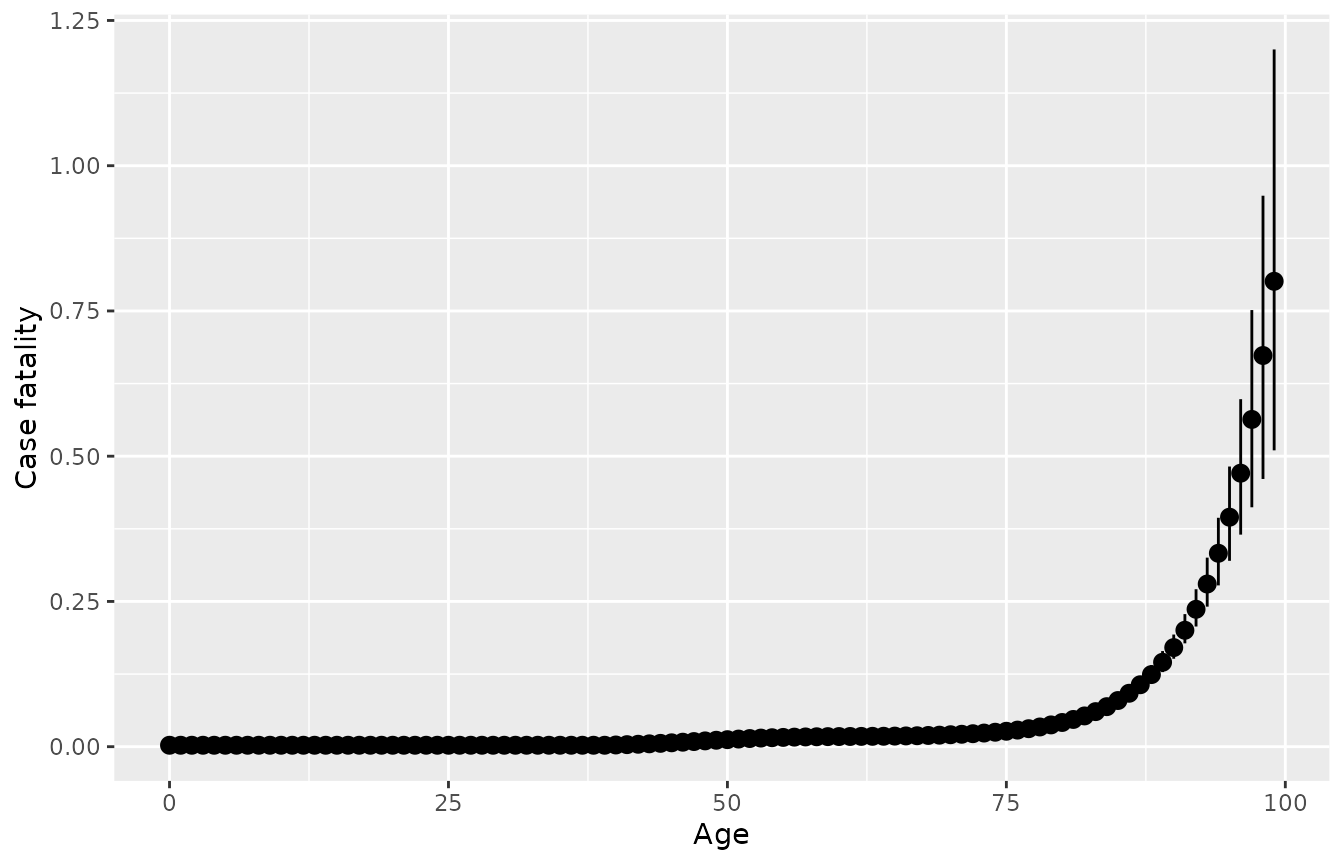
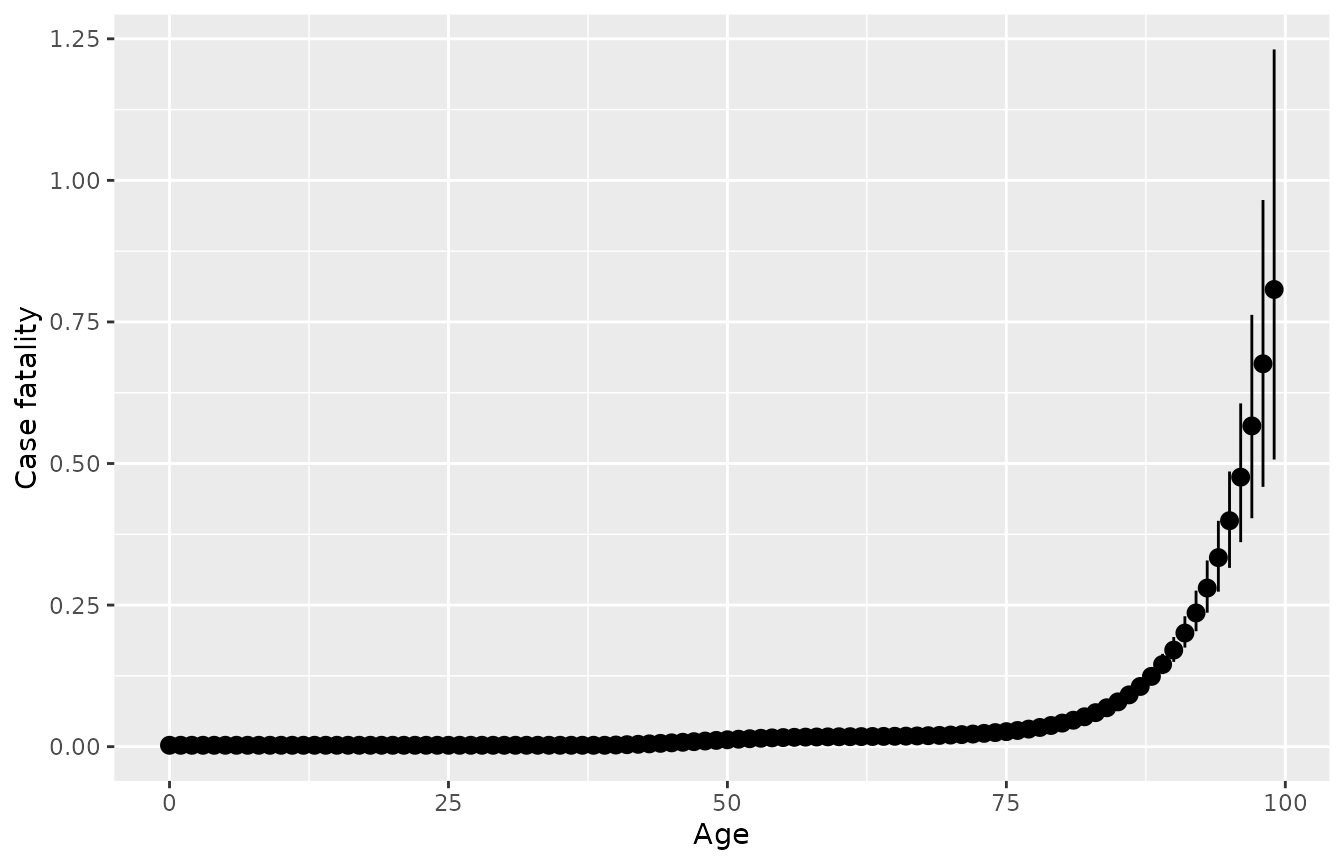
Built site for disbayes: 0.1@26efcb7

diff --git a/articles/disbayes.html b/articles/disbayes.html
@@ -339,12 +339,12 @@
   <span class="fu"><a href="https://dplyr.tidyverse.org/reference/filter.html">filter</a></span><span class="op">(</span><span class="va">var</span><span class="op">==</span><span class="st">"cf"</span>, <span class="fu"><a href="https://dplyr.tidyverse.org/reference/between.html">between</a></span><span class="op">(</span><span class="va">age</span>,<span class="fl">60</span>,<span class="fl">65</span><span class="op">)</span><span class="op">)</span> <span class="op"><a href="https://magrittr.tidyverse.org/reference/pipe.html">%&gt;%</a></span>
   <span class="fu"><a href="https://dplyr.tidyverse.org/reference/select.html">select</a></span><span class="op">(</span><span class="va">age</span>, <span class="va">`25%`</span>, <span class="va">`50%`</span>, <span class="va">`75%`</span><span class="op">)</span></code></pre></div>
 <pre><code>##   age        25%        50%        75%
-## 1  60 0.01628969 0.01745783 0.01867891
-## 2  61 0.01641941 0.01758158 0.01879428
-## 3  62 0.01659347 0.01772099 0.01891497
-## 4  63 0.01676894 0.01785054 0.01905713
-## 5  64 0.01700270 0.01795693 0.01925106
-## 6  65 0.01718564 0.01823203 0.01938821</code></pre>
+## 1  60 0.01634564 0.01746367 0.01867810
+## 2  61 0.01656475 0.01760753 0.01874206
+## 3  62 0.01672020 0.01776206 0.01886312
+## 4  63 0.01688943 0.01794681 0.01900360
+## 5  64 0.01702895 0.01811932 0.01914350
+## 6  65 0.01728766 0.01832277 0.01940926</code></pre>
 <p>The default <code>plot</code> method for objects returned by <code>disbayes</code> plots the posterior summaries for case fatality, allowing a quick check of the model results. Or do <code>plot(..., variable="inc")</code> for incidence. The function returns a <code>ggplot2</code> object that can be modified with <code>ggplot2</code> functions, e.g. to add axis labels.</p>
 <div class="sourceCode" id="cb17"><pre class="downlit sourceCode r">
 <code class="sourceCode R"><span class="kw"><a href="https://rdrr.io/r/base/library.html">library</a></span><span class="op">(</span><span class="va"><a href="https://ggplot2.tidyverse.org">ggplot2</a></span><span class="op">)</span>
